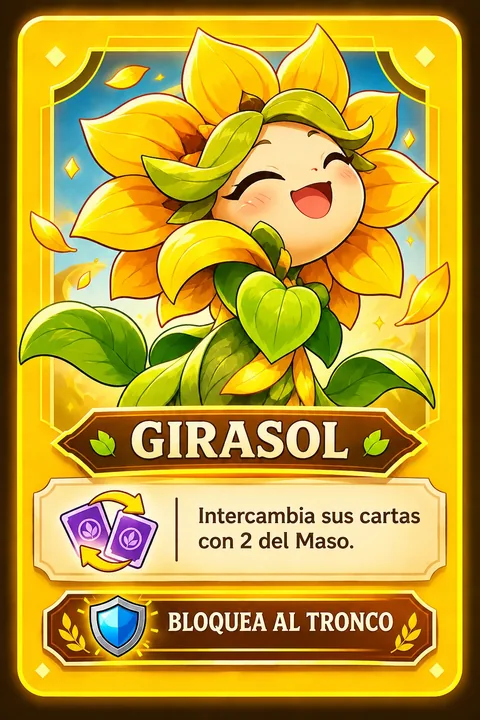
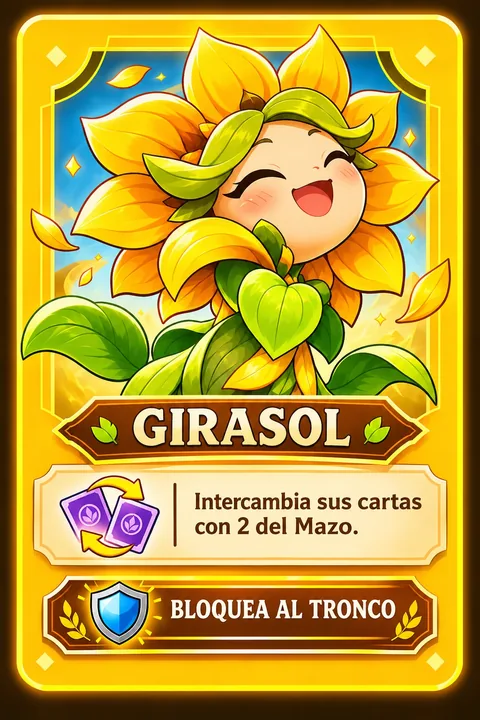
Nuevo reverso de cartas, Girasol corregido y guía actualizada
Claude-Session: https://claude.ai/code/session_01AQDLLu62yTPg7Nhkzz2zXp

diff --git a/css/style.css b/css/style.css
@@ -150,11 +150,8 @@ button:focus-visible, input:focus-visible { outline: 3px solid var(--gold); outl
 }
 .card img { display: block; width: 100%; height: 100%; object-fit: cover; }
 .card.back {
-  background: url("../assets/logo.webp") center / 88% no-repeat,
-    repeating-linear-gradient(45deg, rgba(255, 255, 255, .06) 0 6px, transparent 6px 12px),
-    linear-gradient(160deg, #3c8f3f, #1f4d2b);
-  border: 3px solid #f6e3a8;
-  box-shadow: 0 2px 4px rgba(0, 0, 0, .25);
+  background: url("../assets/cartas/reverso.webp") center / 100% 100% no-repeat;
+  filter: drop-shadow(0 2px 3px rgba(0, 0, 0, .3));
 }
 .card.face { box-shadow: 0 2px 4px rgba(0, 0, 0, .25); }
 .card.lost { filter: grayscale(1) brightness(.75); position: relative; }
